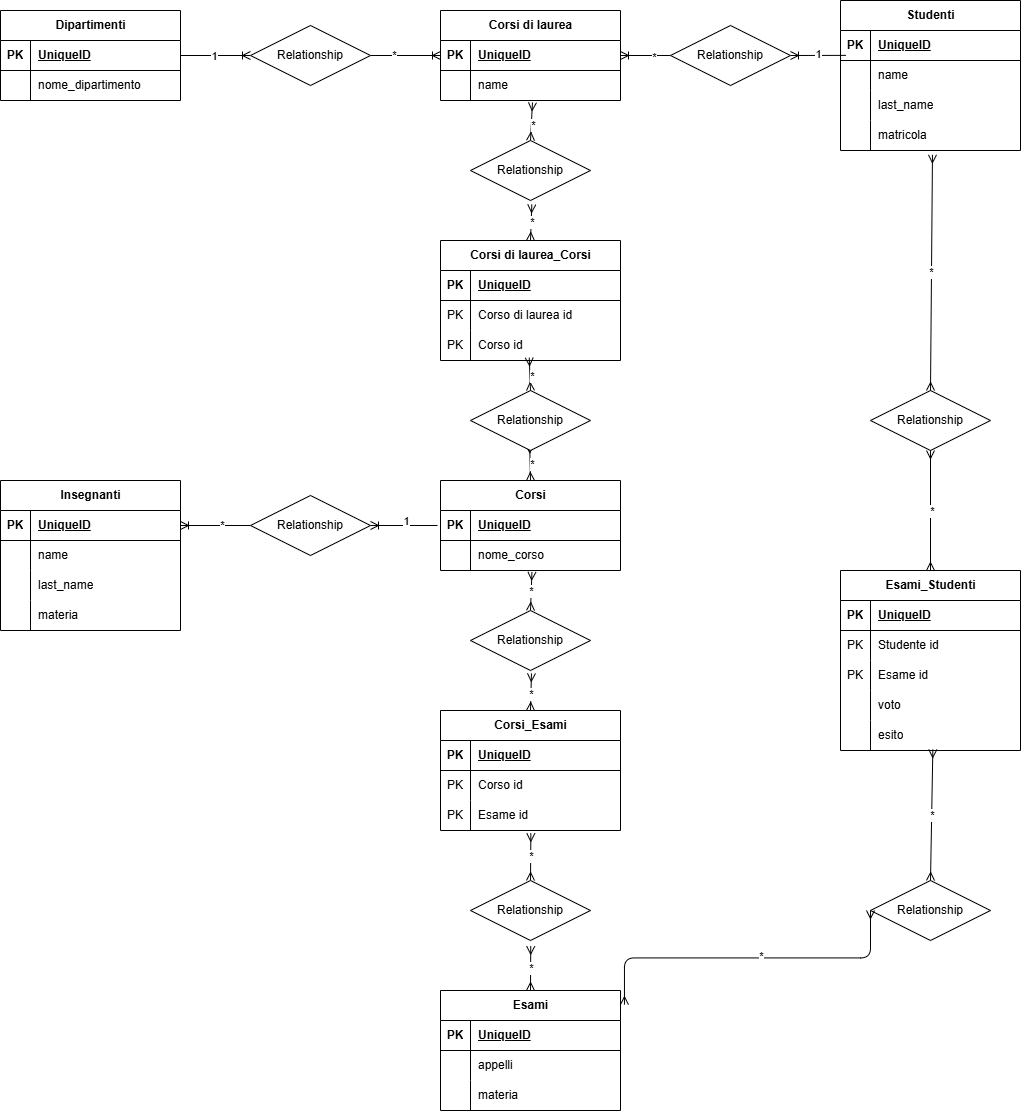
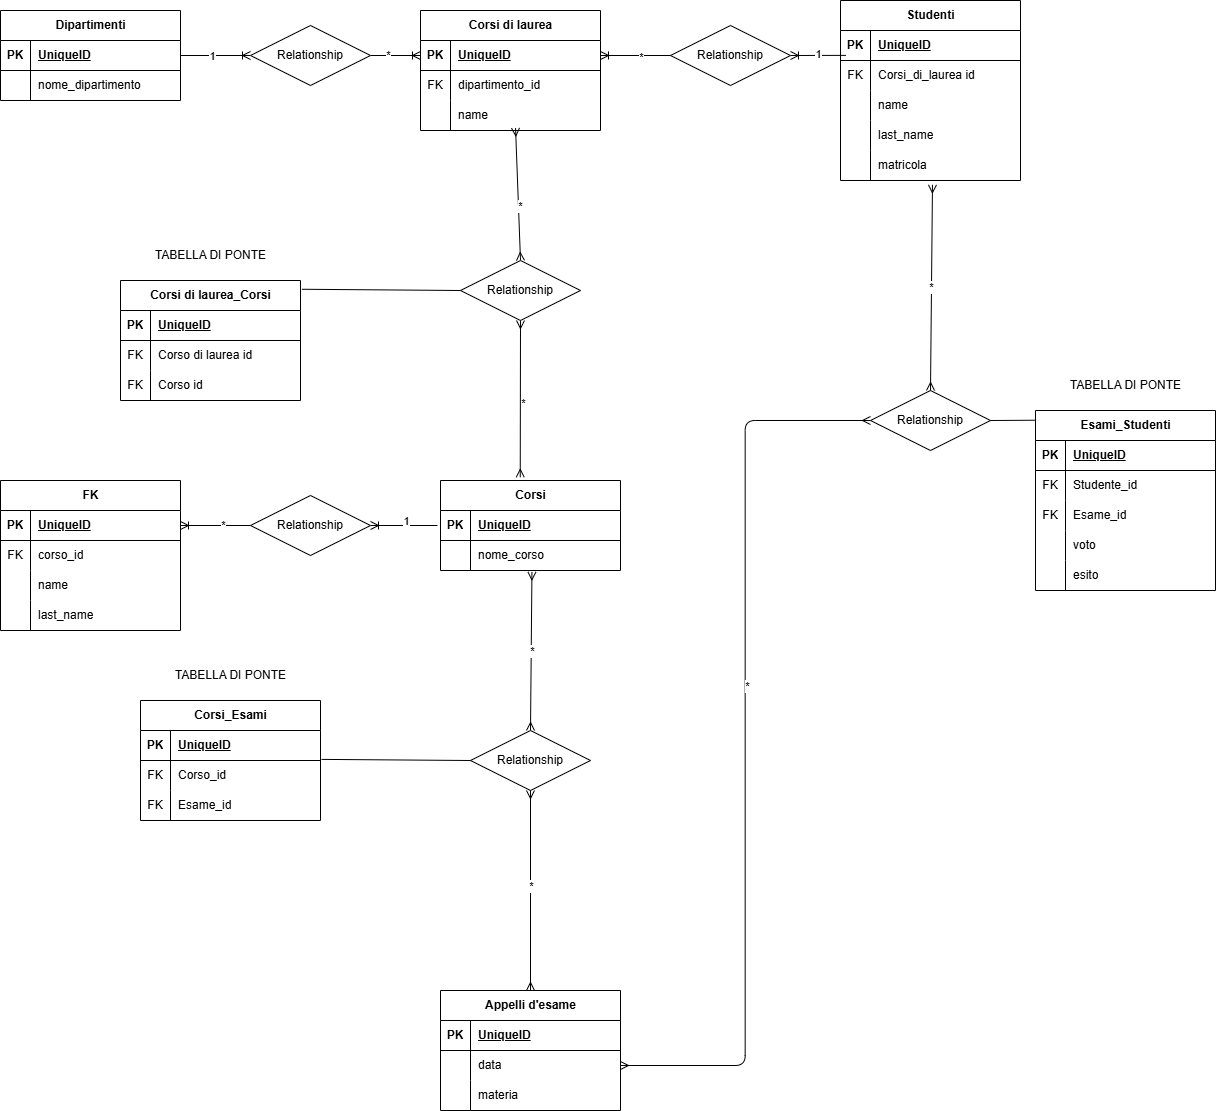
fix scheme

diff --git a/readme.md b/readme.md
@@ -33,9 +33,9 @@ name(varchar(50), NULL)
 last_name(varchar(50), NOTNULL)
 materia(varchar(50), NOTNULL)
 
-## table name: Esami
+## table name: Appelli d'esame
 id(PK)
-appelli(TINYINT, NULL)
+data(date, NOTNULL)
 materia(varchar(50), NOTNULL)
 
 ## table name: Studente
